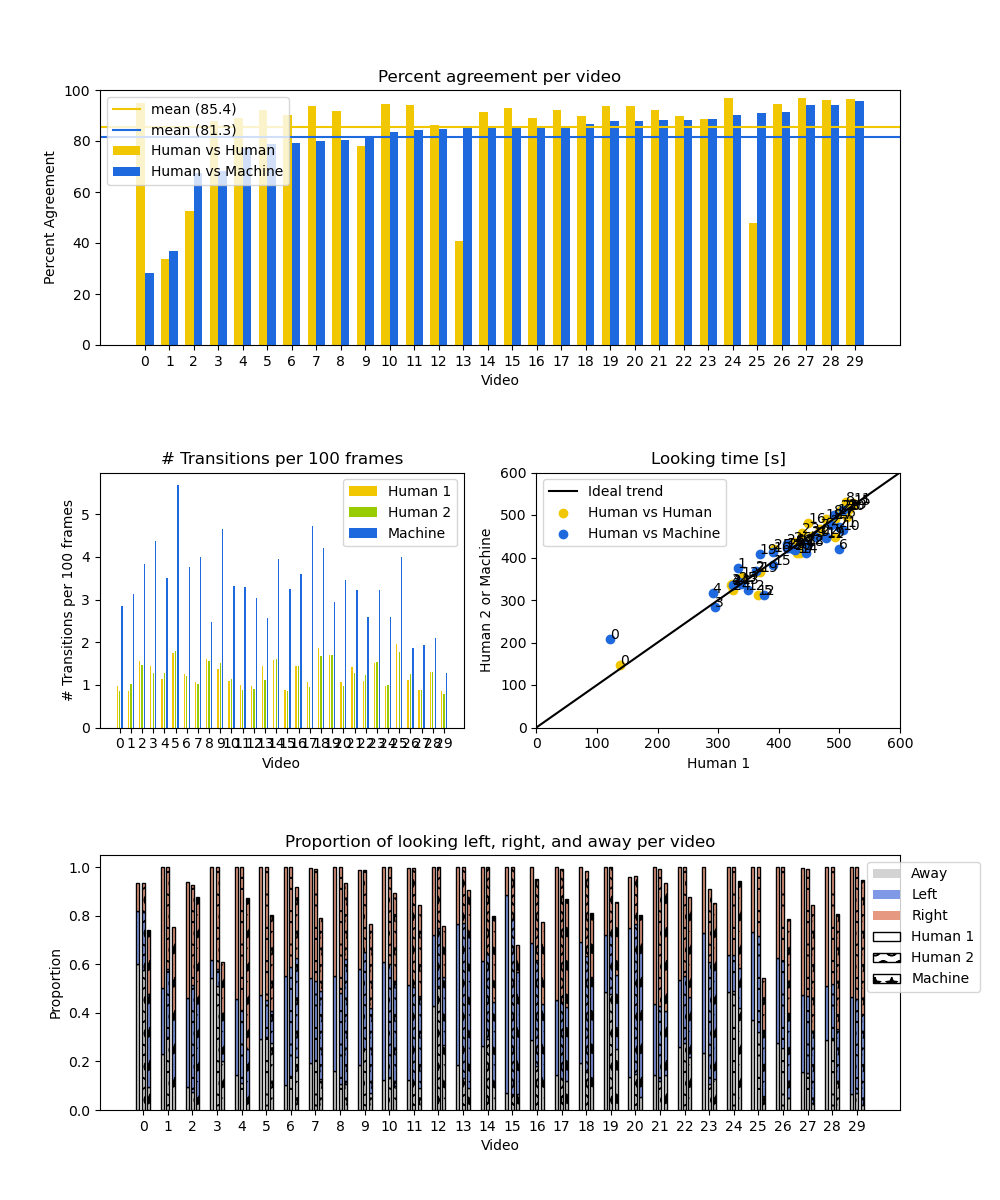
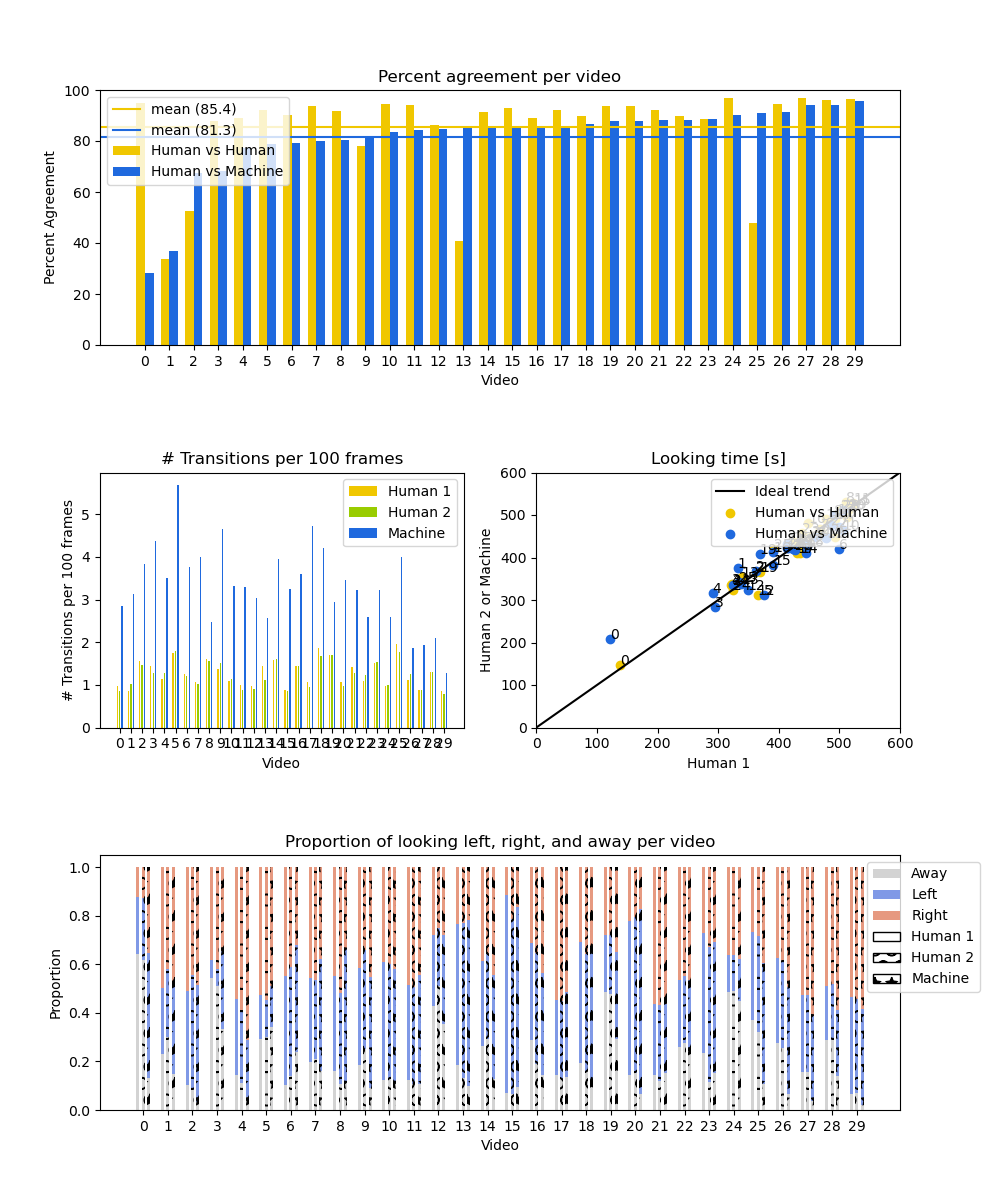
new collage image

Changed region(s): [[0.124, 0.7092, 0.868, 0.925], [0.558, 0.4008, 0.899, 0.4625]]

diff --git a/visualize.py b/visualize.py
@@ -273,6 +273,8 @@ def compare_coding_files(human_coding_file, human_coding_file2, machine_coding_f
         return None
     metrics = {}
     machine_uncol = parser.uncollapse_labels(machine, mstart, mend)
+    special_machine = machine_uncol.copy()
+    special_machine[special_machine < 0] = 0
     human1_uncol = parser.uncollapse_labels(human, start1, end1)
     human2_uncol = parser.uncollapse_labels(human2, start2, end2)
     # bins = [[x, x+30] for x in range(0, end1, 30)]
@@ -281,7 +283,9 @@ def compare_coding_files(human_coding_file, human_coding_file2, machine_coding_f
     metrics["human1_vs_machine_session"] = compare_uncollapsed_coding_files(human1_uncol,
                                                                             machine_uncol,
                                                                             [[0, max(end1, mend)]])
-
+    metrics["human1_vs_smachine_session"] = compare_uncollapsed_coding_files(human1_uncol,
+                                                                             special_machine,
+                                                                             [[0, max(end1, mend)]])
     metrics["human1_vs_human2_trials"] = compare_uncollapsed_coding_files(human1_uncol, human2_uncol, trial_times)
     # metrics["human1_vs_human2_100msbins"] = compare_uncollapsed_coding_files(human1_uncol, human2_uncol, bins)
     metrics["human1_vs_human2_session"] = compare_uncollapsed_coding_files(human1_uncol,
@@ -458,6 +462,111 @@ def generate_frame_by_frame_comparisons(sorted_IDs, all_metrics, args):
         plt.clf()
 
 
+def generate_collage_plot2(sorted_IDs, all_metrics, save_path):
+    """
+    plots one image with various selected stats
+    :param sorted_IDs: ids of videos sorted by accuracy score
+    :param all_metrics: all metrics per video
+    :param save_path: where to save the image
+    :return:
+    """
+    classes = {"away": 0, "left": 1, "right": 2}
+    # fig, axs = plt.subplots(3, 2, figsize=(10, 12))
+    fig = plt.figure(figsize=(10, 12))
+
+    # confusion matrix
+    conf_mat_h2h = fig.add_subplot(3, 2, 1)  # three rows, two columns
+    total_confusion_h2h = np.sum([all_metrics[ID]["human1_vs_human2_session"]["confusion_matrix"] for ID in sorted_IDs],
+                                 axis=0)
+    total_confusion_h2h /= np.sum(total_confusion_h2h, -1, keepdims=True)
+    sns.heatmap(total_confusion_h2h, ax=conf_mat_h2h, vmin=0, vmax=1, annot=True, fmt='.2%', cbar=False, cmap='Blues')
+    conf_mat_h2h.set_xticklabels(['away', 'left', 'right'])
+    conf_mat_h2h.set_yticklabels(['away', 'left', 'right'])
+    conf_mat_h2h.set_xlabel('Coder 1')
+    conf_mat_h2h.set_ylabel('Coder 2')
+    conf_mat_h2h.set_title('Confusion Matrix (Coder 1 vs Coder 2)')
+
+    # confusion matrix 2
+    conf_mat_h2h = fig.add_subplot(3, 2, 2)
+    total_confusion_h2h = np.sum([all_metrics[ID]["human1_vs_machine_session"]["confusion_matrix"] for ID in sorted_IDs],
+                                 axis=0)
+    total_confusion_h2h /= np.sum(total_confusion_h2h, -1, keepdims=True)
+    sns.heatmap(total_confusion_h2h, ax=conf_mat_h2h, vmin=0, vmax=1, annot=True, fmt='.2%', cbar=False, cmap='Blues')
+    conf_mat_h2h.set_xticklabels(['away', 'left', 'right'])
+    conf_mat_h2h.set_yticklabels(['away', 'left', 'right'])
+    conf_mat_h2h.set_xlabel('Coder 1')
+    conf_mat_h2h.set_ylabel('Machine')
+    conf_mat_h2h.set_title('Confusion Matrix (Coder 1 vs Machine)')
+
+    # confusion matrix 3
+    conf_mat_h2h = fig.add_subplot(3, 2, 3)
+    total_confusion_h2h = np.sum([all_metrics[ID]["human1_vs_smachine_session"]["confusion_matrix"] for ID in sorted_IDs],
+                                 axis=0)
+    total_confusion_h2h /= np.sum(total_confusion_h2h, -1, keepdims=True)
+    sns.heatmap(total_confusion_h2h, ax=conf_mat_h2h, vmin=0, vmax=1, annot=True, fmt='.2%', cbar=False, cmap='Blues')
+    conf_mat_h2h.set_xticklabels(['away', 'left', 'right'])
+    conf_mat_h2h.set_yticklabels(['away', 'left', 'right'])
+    conf_mat_h2h.set_xlabel('Coder 1')
+    conf_mat_h2h.set_ylabel('Machine')
+    conf_mat_h2h.set_title(r'Confusion Matrix (Coder 1 vs Machine w "invlid$\leftarrow$away")')
+
+    # LT plot
+    lt_scatter = fig.add_subplot(3, 2, 4)
+    lt_scatter.plot([0, 1], [0, 1], transform=lt_scatter.transAxes, color="black", label="Ideal trend")
+    lt_scatter.set_xlim([0, 100])
+    lt_scatter.set_ylim([0, 100])
+    x_target = []
+    y_target = []
+    for ID in sorted_IDs:
+        x_target += [x["looking_time_1"]/30 for x in all_metrics[ID]["human1_vs_machine_trials"]]
+        y_target += [x["looking_time_2"]/30 for x in all_metrics[ID]["human1_vs_machine_trials"]]
+    lt_scatter.scatter(x_target, y_target, color=label_to_color("lorange"),
+                       label='Trial', alpha=0.9)
+    lt_scatter.set_xlabel("Coder 1")
+    lt_scatter.set_ylabel("Machine")
+    lt_scatter.set_title("Looking time [s]")
+    lt_scatter.legend(loc='upper left')
+
+    # %R plot
+    pr_scatter = fig.add_subplot(3, 2, 5)
+    pr_scatter.plot([0, 1], [0, 1], transform=pr_scatter.transAxes, color="black", label="Ideal trend")
+    pr_scatter.set_xlim([0, 100])
+    pr_scatter.set_ylim([0, 100])
+    x_target = []
+    y_target = []
+    for ID in sorted_IDs:
+        x_target += [x["percent_r_1"] * 100 for x in all_metrics[ID]["human1_vs_machine_trials"]]
+        y_target += [x["percent_r_2"] * 100 for x in all_metrics[ID]["human1_vs_machine_trials"]]
+    pr_scatter.scatter(x_target, y_target, color=label_to_color("lorange"),
+                       label='Trial', alpha=0.5)
+    pr_scatter.set_xlabel("Coder 1")
+    pr_scatter.set_ylabel("Machine")
+    pr_scatter.set_title("Percent Right")
+    pr_scatter.legend(loc='lower center')
+
+    # percent agreement plot
+    pa_scatter = fig.add_subplot(3, 2, 6)
+    pa_scatter.plot([0, 1], [0, 1], transform=pa_scatter.transAxes, color="black", label="Ideal trend")
+    pa_scatter.set_xlim([0, 100])
+    pa_scatter.set_ylim([0, 100])
+    x_target = []
+    y_target = []
+    for ID in sorted_IDs:
+        x_target += [x["agreement"] * 100 for x in all_metrics[ID]["human1_vs_human2_trials"]]
+        y_target += [x["agreement"] * 100 for x in all_metrics[ID]["human1_vs_machine_trials"]]
+    pa_scatter.scatter(x_target, y_target, color=label_to_color("lorange"),
+                       label='Trial', alpha=0.3)
+    pa_scatter.set_xlabel("Coder 1 vs Coder 2")
+    pa_scatter.set_ylabel("Coder 1 vs Machine")
+    pa_scatter.set_title("Percent Agreement")
+    pa_scatter.legend(loc='upper left')
+
+    plt.subplots_adjust(left=0.1, bottom=0.075, right=0.9, top=0.925, wspace=0.2, hspace=0.5)
+    plt.savefig(Path(save_path, "collage2.png"))
+    plt.cla()
+    plt.clf()
+
+
 def generate_collage_plot(sorted_IDs, all_metrics, save_path):
     """
     plots one image with various selected stats
@@ -511,7 +620,7 @@ def generate_collage_plot(sorted_IDs, all_metrics, save_path):
     transitions_bar.set_ylabel('# Transitions per 100 frames')
     transitions_bar.set_xlabel('Video')
 
-    # on away plot
+    # Looking time plot
     on_away_scatter = fig.add_subplot(3, 2, 4)  # three rows, two columns
     # on_away_scatter = axs[1, 1]
     on_away_scatter.plot([0, 1], [0, 1], transform=on_away_scatter.transAxes, color="black", label="Ideal trend")
@@ -530,7 +639,7 @@ def generate_collage_plot(sorted_IDs, all_metrics, save_path):
     on_away_scatter.set_xlabel("Human 1")
     on_away_scatter.set_ylabel("Human 2 or Machine")
     on_away_scatter.set_title("Looking time [s]")
-    on_away_scatter.legend()
+    on_away_scatter.legend(loc='upper right')
 
     # label distribution plot
     # label_scatter = fig.add_subplot(3, 2, 5)  # three rows, two columns
@@ -566,16 +675,16 @@ def generate_collage_plot(sorted_IDs, all_metrics, save_path):
     width = 0.66
     patterns = [None, "O", "*"]
     for i, label in enumerate(sorted(classes.keys())):
-        label_counts_h1 = [y[i] / sum(y) for y in [all_metrics[ID]["human1_vs_human2_session"]['label_count_1'] for ID in sorted_IDs]]
-        label_counts_h2 = [y[i] / sum(y) for y in [all_metrics[ID]["human1_vs_human2_session"]['label_count_2'] for ID in sorted_IDs]]
-        label_counts_m = [y[i] / sum(y) for y in [all_metrics[ID]["human1_vs_machine_session"]['label_count_2'] for ID in sorted_IDs]]
+        label_counts_h1 = [y[i] / sum(y[:3]) for y in [all_metrics[ID]["human1_vs_human2_session"]['label_count_1'] for ID in sorted_IDs]]
+        label_counts_h2 = [y[i] / sum(y[:3]) for y in [all_metrics[ID]["human1_vs_human2_session"]['label_count_2'] for ID in sorted_IDs]]
+        label_counts_m = [y[i] / sum(y[:3]) for y in [all_metrics[ID]["human1_vs_machine_session"]['label_count_2'] for ID in sorted_IDs]]
 
         label_bar.bar(x - width/3, label_counts_h1, bottom=bottoms_h1, width=(width / 3)-0.1, label=label,
-                      color=label_to_color(label), edgecolor='black', hatch=patterns[0])
+                      color=label_to_color(label), edgecolor='black', hatch=patterns[0], linewidth=0)
         label_bar.bar(x, label_counts_h2, bottom=bottoms_h2, width=(width / 3)-0.1, label=label,
-                      color=label_to_color(label), edgecolor='black', hatch=patterns[1])
+                      color=label_to_color(label), edgecolor='black', hatch=patterns[1], linewidth=0)
         label_bar.bar(x + width/3, label_counts_m, bottom=bottoms_m, width=(width / 3)-0.1, label=label,
-                      color=label_to_color(label), edgecolor='black', hatch=patterns[2])
+                      color=label_to_color(label), edgecolor='black', hatch=patterns[2], linewidth=0)
         if i == 0:
             artists = [Patch(facecolor=label_to_color("away"), label="Away"),
                        Patch(facecolor=label_to_color("left"), label="Left"),
@@ -835,6 +944,7 @@ if __name__ == "__main__":
     sorted_ids = sorted(list(all_metrics.keys()),
                         key=lambda x: all_metrics[x]["human1_vs_machine_session"]["agreement"])
     generate_collage_plot(sorted_ids, all_metrics, args.output_folder)
+    generate_collage_plot2(sorted_ids, all_metrics, args.output_folder)
     generate_frame_by_frame_comparisons(sorted_ids, all_metrics, args)
     plot_face_pixel_density_vs_accuracy(sorted_ids, all_metrics, args)
     plot_face_location_vs_accuracy(sorted_ids, all_metrics, args)
